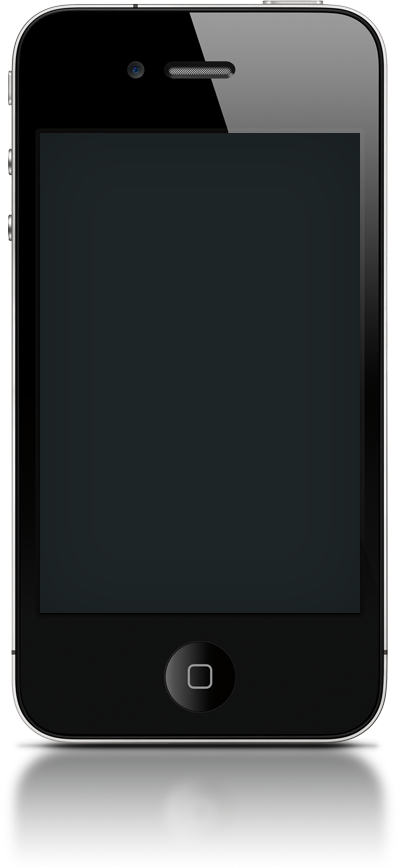
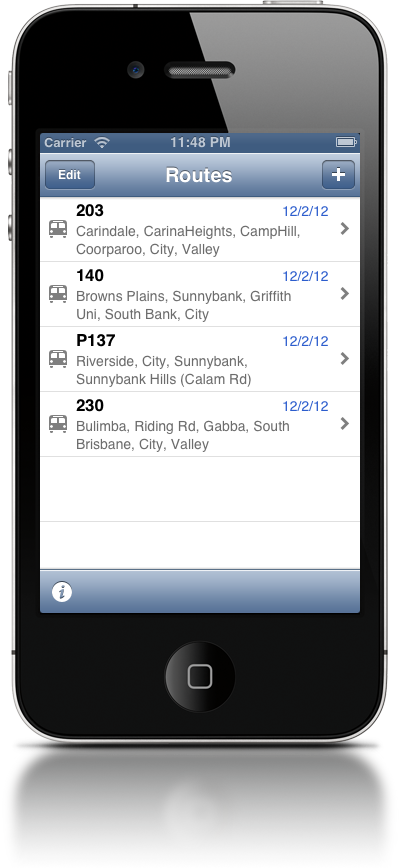
Website is now responsive and optimised for retina.

diff --git a/index.html b/index.html
@@ -20,10 +20,20 @@
         width: 500px;
       }
 
-      @media only screen and (max-width: 768px) {
+      @media only screen and (max-width: 1000px) {
         body {
           padding: 10px 0;
-          width: 90%;
+          width: 100%;
+        }
+
+        body > div#body > * {
+          margin-left: 5%;
+          margin-right: 5%;
+        }
+
+        body > div#body > div#device {
+          margin-left: 0;
+          margin-right: 0;
         }
       }
 
@@ -39,7 +49,7 @@
         font-size: 3em;
       }
 
-      @media only screen and (max-width: 768px) {
+      @media only screen and (max-width: 1000px) {
         h1 {
           font-size: 2.5em;
           margin: 0;
@@ -53,7 +63,7 @@
         text-transform: uppercase;
       }
 
-      @media only screen and (max-width: 768px) {
+      @media only screen and (max-width: 1000px) {
         h1, h2 {
           line-height: 1.4em;
         }
@@ -67,45 +77,58 @@
       }
 
       a#appstore {
-        background-image: url('appstore.png');
+        background: url('appstore.png') center top no-repeat;
         display: block;
         margin: 30px auto;
         height: 60px;
-        width: 271px;
       }
 
       @media screen and (-webkit-min-device-pixel-ratio: 2) {
         a#appstore {
           background-image: url('appstore@2x.png');
-          background-repeat: no-repeat;
-          background-size: 100%;
+          background-size: 271px;
         }
       }
 
       div#device {
-        background: url(device.png) center center no-repeat;
+        background: url(device.png) center top no-repeat;
         width: 399px;
         height: 868px;
+        padding-top: 133px;
         position: absolute;
         left: 0;
         top: 80px;
+        text-align: center;
       }
 
-      @media only screen and (max-width: 768px) {
+      @media screen and (-webkit-min-device-pixel-ratio: 2) {
         div#device {
-          display: none;
+          width: 393px;
+          background-image: url('device@2x.png');
+          background-size: 393px;
         }
       }
 
-      div#device video {
-        position: absolute;
-        left: 40px;
-        top: 133px;
+      @media only screen and (max-width: 1000px) {
+        div#device {
+          width: 100%;
+          position: static;
+          left: auto;
+          top: auto;
+          margin-bottom: -240px;
+        }
       }
 
       div#footer {
         color: #777;
         font-size: 0.8em;
+      }
+
+      @media only screen and (max-width: 1000px) {
+        div#footer {
+          margin-left: 5%;
+          margin-right: 5%;
+        }
       }
 
       div#footer div {
@@ -126,11 +149,26 @@
       <p>Never miss a stop or get lost on busses. Next Stop will alert you when it's time to hop off.<sup>1</sup></p>
       <a id="appstore" href="soon.html"></a>
       <div id="device">
-        <video autoplay loop>
+        <video width="320" height="480" poster="poster.png" loop autoplay>
           <source src="screencast.mp4" type="video/mp4" />
           <source src="screencast.webm" type="video/webm" />
         </video>
       </div>
+      <script type="text/javascript">
+        (function() {
+         if (!navigator.userAgent.match(/(iPad|iPhone|iPod|android)/i)) return;
+
+          var device   = document.getElementById('device'),
+              oldVideo = device.children[0],
+              newVideo = oldVideo.cloneNode(true);
+
+          newVideo.setAttribute('controls', true);
+          newVideo.removeAttribute('autoplay');
+
+          device.removeChild(oldVideo);
+          device.appendChild(newVideo);
+        }).call(this);
+      </script>
       <h2>All the stops</h2>
       <p>Tell Next Stop where you're going and it will find the closest<sup>2</sup> bus stop on your route in the direction of travel. Searching bus stops is instant.</p>
       <h2>Get notified close to the stop</h2>
